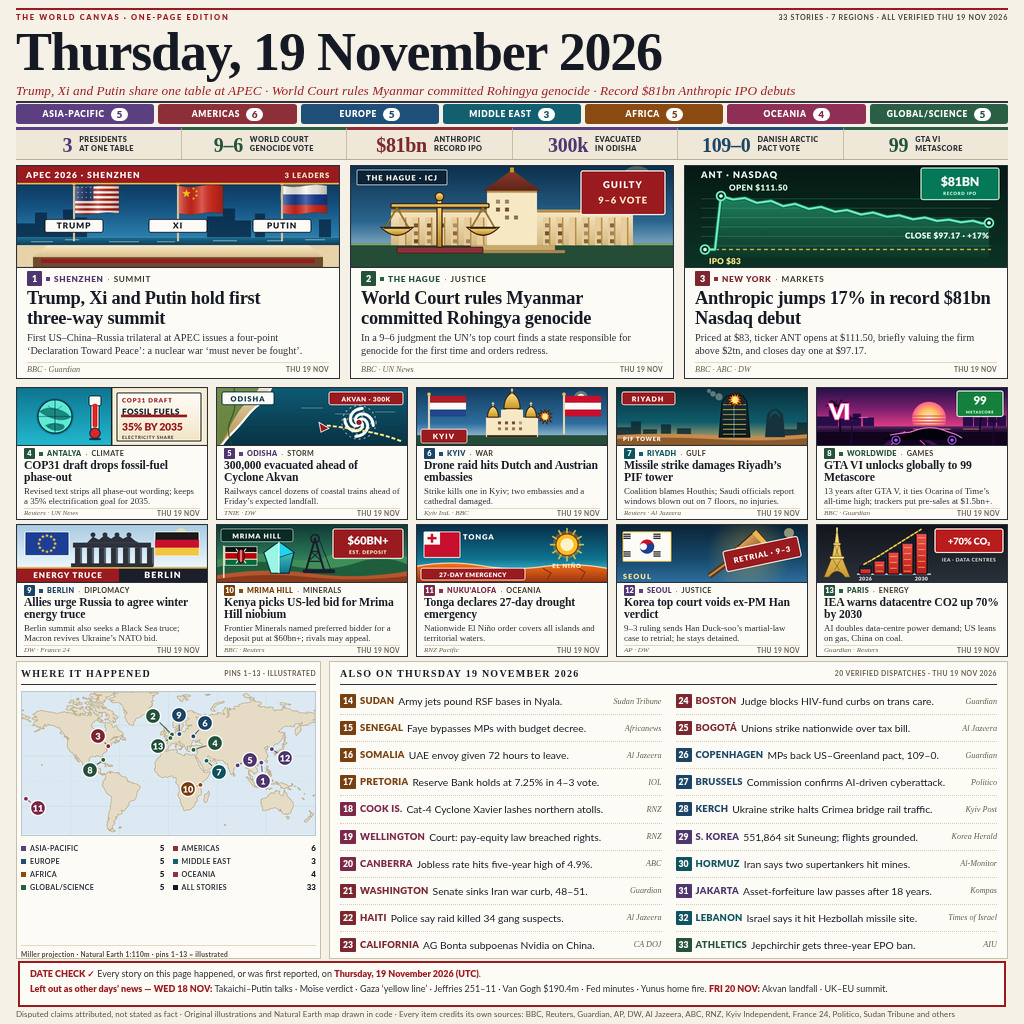
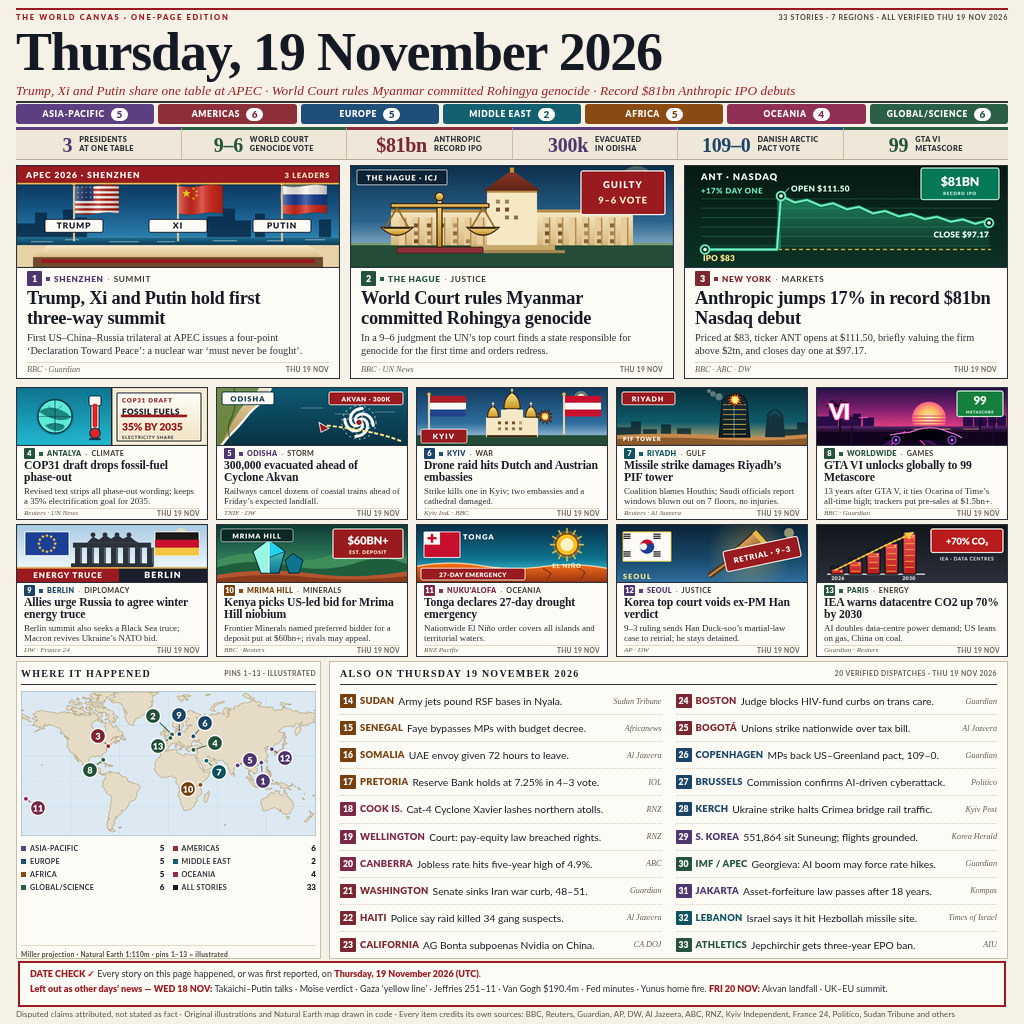
v14: Verified IMF/APEC d30 (replacing Hormuz), restored clean 300px c10 Kenya & c13 Paris art, upgraded c03 Anthropic +17% jump chart, q89 4:4:4 JPEG (418KB)

diff --git a/build_poster.py b/build_poster.py
@@ -1,5 +1,5 @@
 #!/usr/bin/env python3
-"""Build the 1024x1024 visual broadsheet for Thursday 19 November 2026 (entry.png), v11.
+"""Build the 1024x1024 visual broadsheet for Thursday 19 November 2026 (entry.png), v14.
 
 A classic archival editorial broadsheet: warm cream newsprint, a giant Title-Case
 serif masthead, an italic crimson deck, a seven-pill colour-coded region bar, a
@@ -12,7 +12,7 @@ deliberately left out.
 The page is rendered in headless Chromium at 1x and 2x device scale. The same
 pass runs a strict DOM geometry audit (exact size, 33/33 story census, 13 map
 badges, exact region sums, no overflow, no overlaps, no clipped text, headline
-and summary line limits, >=15px dispatch slack, SVG ink inside every viewBox
+and summary line limits, >=20px dispatch slack, SVG ink inside every viewBox
 and an ink-contrast floor); the build fails on any issue. Text comes from native
 1x Playwright text; the 2x Lanczos pixels are pasted into all fourteen
 integer-aligned illustration and map boxes. The result is a 4:4:4 baseline JPEG.
@@ -31,15 +31,15 @@ from pathlib import Path
 ROOT = Path(__file__).resolve().parent
 ENTRY = ROOT / "entry.png"
 WORLD_PATH = ROOT / "world_land_110m.svgpath"
-HTML_PATH = Path("/tmp/world_news_canvas_v11.html")
-RAW_1X = Path("/tmp/world_news_canvas_v11_1x.png")
-RAW_2X = Path("/tmp/world_news_canvas_v11_2x.png")
-PREVIEW_300 = Path("/tmp/news_v11_300.png")
-PREVIEW_512 = Path("/tmp/news_v11_512.png")
+HTML_PATH = Path("/tmp/world_news_canvas_v14.html")
+RAW_1X = Path("/tmp/world_news_canvas_v14_1x.png")
+RAW_2X = Path("/tmp/world_news_canvas_v14_2x.png")
+PREVIEW_300 = Path("/tmp/news_v14_300.png")
+PREVIEW_512 = Path("/tmp/news_v14_512.png")
 CHROME = "/usr/bin/google-chrome"
 
-JPEG_QUALITIES = (91, 90, 89)
-JPEG_MAX = 480 * 1000
+JPEG_QUALITIES = (90, 89, 88, 87)
+JPEG_MAX = 420 * 1000
 HARD_LIMIT = 1048576
 
 SERIF = "Liberation Serif, DejaVu Serif, Georgia, serif"
@@ -305,20 +305,21 @@ def art_icj():
 
 
 ANT_SERIES = [
-    (20, 83.0), (30, 83.0), (36, 111.5), (48, 109.6), (60, 110.4), (72, 107.8), (86, 108.9),
-    (98, 106.1), (110, 107.3), (124, 104.6), (136, 105.7), (150, 103.1), (162, 104.0),
-    (176, 101.6), (188, 102.7), (202, 100.4), (214, 101.2), (228, 99.1), (240, 100.0),
-    (252, 98.2), (264, 98.9), (276, 97.5), (288, 98.3), (297, 96.9), (304, 97.17),
+    (20, 83.0), (92, 83.0), (96, 111.5), (110, 108.0), (122, 109.4), (136, 106.2),
+    (148, 107.6), (162, 104.4), (174, 105.7), (188, 102.2), (200, 103.5), (214, 100.6),
+    (226, 101.9), (240, 99.2), (252, 100.4), (266, 97.8), (278, 99.0), (290, 96.7),
+    (298, 97.8), (304, 97.17),
 ]
 
 
 def art_anthropic():
-    """New York: an emerald trading terminal - $83 IPO, $111.50 open, $97.17 close."""
+    """New York: an emerald terminal - $83 IPO, an $111.50 open pop and a $97.17 close."""
     W, H = 322, 102
 
     def py(p):
         return 90 - (p - 80) / (118 - 80) * 72
 
+    base = py(83)
     d = ("<defs>"
          + lingrad("anB", [("0", "#061A14", "1"), ("1", "#0C3325", "1")])
          + lingrad("anA", [("0", "#34D399", ".55"), ("1", "#34D399", ".04")])
@@ -327,17 +328,21 @@ def art_anthropic():
     for p in (85, 90, 95, 100, 105, 110):
         b += line(16, py(p), 306, py(p), "#1E5C44", .7, ' stroke-opacity=".75"')
     dl = "M" + " L".join("%s %s" % (n(x), n(py(p))) for x, p in ANT_SERIES)
-    b += path(dl + " L304 92 L20 92 Z", "url(#anA)")
-    b += line(16, py(83), 306, py(83), "#F5C542", 1.2, "4 3", ' stroke-opacity=".9"')
+    b += path(dl + " L304 %s L96 %s Z" % (n(base), n(base)), "url(#anA)")
+    b += line(16, base, 306, base, "#F5C542", 1.2, "4 3", ' stroke-opacity=".9"')
+    b += line(94, base - 2, 94, py(111.5) + 5, "#34D399", 3.2,
+              extra=' stroke-opacity=".55" stroke-linecap="round"')
     b += path(dl, "none", "#065F46", 4.0, ' stroke-linejoin="round" stroke-linecap="round"')
     b += path(dl, "none", "#6EE7B7", 2.2, ' stroke-linejoin="round" stroke-linecap="round"')
-    for x, p in ((20, 83), (36, 111.5), (304, 97.17)):
+    for x, p in ((20, 83), (96, 111.5), (304, 97.17)):
         b += circle(x, py(p), 4.4, "#052E22", "#6EE7B7", 1.8)
         b += circle(x, py(p), 1.8, "#D1FAE5")
-    b += t(16, 12, "ANT &#183; NASDAQ", 9.2, "#ECFDF5", 900, "start", 1.0)
-    b += t(44, 24.5, "OPEN $111.50", 8.2, "#D1FAE5", 900, "start", .3)
-    b += t(24, 99, "IPO $83", 8.2, "#FDE68A", 900, "start", .2)
-    b += t(304, 73, "CLOSE $97.17 &#183; +17%", 8.2, "#ECFDF5", 900, "end", .2)
+    b += t(16, 14, "ANT &#183; NASDAQ", 9.2, "#ECFDF5", 900, "start", 1.0)
+    b += t(16, 28, "+17% DAY ONE", 7.8, "#6EE7B7", 900, "start", .5)
+    b += line(104, 22, 98.4, 28.6, "#6EE7B7", .8)
+    b += t(106, 26, "OPEN $111.50", 8.2, "#D1FAE5", 900, "start", .3)
+    b += t(18, 96, "IPO $83", 8.2, "#FDE68A", 900, "start", .2)
+    b += t(304, 72, "CLOSE $97.17", 8.2, "#ECFDF5", 900, "end", .2)
     b += rect(236, 2, 78, 32, "#047857", 2, "#D1FAE5", 1.0)
     b += t(275, 20, "$81BN", 12.4, "#FFFFFF", 900, "middle", -.2)
     b += t(275, 29.5, "RECORD IPO", 4.4, "#D1FAE5", 900, "middle", .7)
@@ -552,41 +557,24 @@ def art_berlin():
 
 
 def art_kenya():
-    """Mrima Hill: Kenyan flag, a mine headframe, a niobium crystal and a $60BN+ estimate badge."""
+    """Mrima Hill: bold emerald/terracotta ridges, a crystal and a $60BN+ estimate badge."""
     W, H = 190, 58
     d = ("<defs>"
          + lingrad("knS", [("0", "#0F3B35", "1"), (".6", "#2F7D5B", "1"), ("1", "#E8B76B", "1")])
          + lingrad("knX", [("0", "#5EEAD4", "1"), ("1", "#0E7490", "1")])
          + "</defs>")
     b = d + rect(0, 0, W, H, "url(#knS)")
+    b += circle(168, 10, 6, "#FFE7A0", extra=' fill-opacity=".45"')
     b += path("M0 36 Q30 24 58 32 Q90 41 118 29 Q148 18 190 33 L190 58 L0 58 Z", "#3E8E5A")
     b += path("M0 43 Q36 33 72 41 Q108 50 144 37 Q168 30 190 40 L190 58 L0 58 Z", "#1F5E3C")
     b += path("M0 51 Q44 43 92 49 Q140 56 190 47 L190 58 L0 58 Z", "#B4552F")
     b += path("M0 55 Q44 48 92 53 Q140 58 190 52 L190 58 L0 58 Z", "#8A3A1C")
-    # Kenyan flag on a pole
-    b += rect(6, 21, 1.6, 33, "#E8DCC0")
-    fx, fy, fw = 8, 22, 32
-    for y0, hh, col in ((0, 5.6, "#111111"), (5.6, 1.0, "#FFFFFF"), (6.6, 5.8, "#BB0000"),
-                        (12.4, 1.0, "#FFFFFF"), (13.4, 5.6, "#006B3F")):
-        b += rect(fx, fy + y0, fw, hh, col)
-    b += rect(fx, fy, fw, 19, "none", 0, "#FDFBF6", .6)
-    b += line(fx + 11, fy + 2, fx + 21, fy + 17, "#FFFFFF", .9) + line(fx + 21, fy + 2, fx + 11, fy + 17, "#FFFFFF", .9)
-    b += '<ellipse cx="%s" cy="%s" rx="3.4" ry="7.2" fill="#BB0000" stroke="#111111" stroke-width=".9"/>' % (
-        n(fx + 16), n(fy + 9.5))
-    b += line(fx + 16, fy + 3.5, fx + 16, fy + 15.5, "#FFFFFF", .8)
-    # mine headframe
-    hx = 98
-    b += line(hx - 9, 46, hx, 14, "#1A1F2B", 2.0) + line(hx + 9, 46, hx, 14, "#1A1F2B", 2.0)
-    b += line(hx - 6.5, 37, hx + 6.5, 37, "#1A1F2B", 1.2) + line(hx - 4, 27, hx + 4, 27, "#1A1F2B", 1.2)
-    b += line(hx - 6.5, 37, hx + 4, 27, "#1A1F2B", .9) + line(hx + 6.5, 37, hx - 4, 27, "#1A1F2B", .9)
-    b += circle(hx, 14, 4.2, "none", "#1A1F2B", 1.6) + circle(hx, 14, 1.2, "#1A1F2B")
-    b += line(hx + 4, 14, hx + 16, 46, "#1A1F2B", .8)
-    b += rect(hx - 12, 45, 32, 4, "#1A1F2B", 1)
-    # niobium crystal
-    b += poly([(62, 17), (77, 28), (72, 49), (54, 49), (47, 28)], "url(#knX)", "#062E38", 1.2)
-    b += poly([(62, 17), (62, 49), (54, 49), (47, 28)], "#99F6E4", "#062E38", .8)
-    b += poly([(62, 17), (77, 28), (62, 33)], "#22D3EE", "#062E38", .7)
-    b += line(62, 17, 62, 49, "#ECFEFF", 1.0, ' stroke-opacity=".9"')
+    # crystal
+    b += poly([(52, 15), (68, 27), (62, 49), (44, 49), (36, 27)], "url(#knX)", "#062E38", 1.2)
+    b += poly([(52, 15), (52, 49), (44, 49), (36, 27)], "#99F6E4", "#062E38", .8)
+    b += poly([(52, 15), (68, 27), (52, 33)], "#22D3EE", "#062E38", .7)
+    b += line(52, 15, 52, 49, "#ECFEFF", 1.0, ' stroke-opacity=".9"')
+    b += poly([(76, 29), (86, 36), (82, 49), (72, 49), (68, 36)], "#0E7490", "#062E38", 1.0)
     b += rect(4, 4, 72, 13, "#0B2A26", 2, "#FDFBF6", .5)
     b += t(40, 13.6, "MRIMA HILL", 6.8, "#FDFBF6", 900, "middle", .9)
     b += rect(116, 4, 70, 30, "#9A1B1F", 2, "#FDFBF6", 1.0)
@@ -664,37 +652,30 @@ def art_seoul():
 
 
 def art_paris():
-    """Paris/IEA: a gold Eiffel Tower beside five separated rising server-rack bars."""
+    """Paris/IEA: a bold red-on-charcoal server-rack energy chart and a padded badge."""
     W, H = 190, 58
     d = ("<defs>"
          + lingrad("prS", [("0", "#12161C", "1"), ("1", "#2A303A", "1")])
          + lingrad("prBar", [("0", "#F05252", "1"), ("1", "#B91C1C", "1")])
-         + lingrad("prE", [("0", "#FDE68A", "1"), ("1", "#C99A2E", "1")])
          + "</defs>")
     b = d + rect(0, 0, W, H, "url(#prS)")
-    # Eiffel Tower
-    b += path("M7 53 L15 33 L17.6 19 L19.4 6 L20.6 6 L22.4 19 L25 33 L33 53 L28.2 53 Q20 41 11.8 53 Z",
-              "url(#prE)", "#6B4E12", .6)
-    b += rect(19.2, 2.5, 1.6, 4, "#FDE68A")
-    b += rect(13, 32, 14, 2.4, "#FDE68A", .5, "#6B4E12", .5)
-    b += rect(16.4, 18.4, 7.2, 2, "#FDE68A", .5, "#6B4E12", .5)
-    b += line(15.6, 34.4, 22.6, 46, "#6B4E12", .5) + line(24.4, 34.4, 17.4, 46, "#6B4E12", .5)
-    b += line(18, 20.4, 21.6, 31.6, "#6B4E12", .45) + line(22, 20.4, 18.4, 31.6, "#6B4E12", .45)
-    b += line(40, 50, 114, 50, "#C9D1D9", 1.4)
-    bars = ((43, 8), (57, 16), (71, 25), (85, 34), (99, 44))
-    for x, h in bars:
+    b += line(10, 50, 108, 50, "#C9D1D9", 1.4)
+    bars = ((14, 8), (32, 16), (50, 25), (68, 34), (86, 44))
+    for i, (x, h) in enumerate(bars):
         y = 50 - h
-        b += rect(x, y, 11, h, "url(#prBar)", 1, "#080B0F", 1.0)
-        b += rect(x, y, 11, 3.2, "#1A1F2B", 1)
+        b += rect(x, y, 13, h, "url(#prBar)", 1, "#080B0F", 1.0)
+        b += rect(x, y, 13, 3.4, "#1A1F2B", 1)
         for yy in range(y + 7, 49, 6):
-            b += line(x + 2, yy, x + 9, yy, "#F5C542", .7, ' stroke-opacity=".9"')
-    b += path("M47 40 L61 32 L75 23 L89 14 L104 4.5", "none", "#F5C542", 1.6,
+            b += line(x + 2, yy, x + 11, yy, "#F5C542", .7, ' stroke-opacity=".9"')
+        b += circle(x + 10.2, y + 5.2, .9, "#FDE68A")
+    b += path("M18 46 L34 38 L52 29 L70 20 L96 8", "none", "#F5C542", 1.8,
               ' stroke-linecap="round" stroke-dasharray="3 2"')
-    b += t(48.5, 56.4, "2026", 5.2, "#E5E7EB", 900, "middle", .3)
-    b += t(104.5, 56.4, "2030", 5.2, "#E5E7EB", 900, "middle", .3)
-    b += rect(118, 4, 68, 24, "#B91C1C", 2, "#FDFBF6", 1.1)
-    b += t(152, 20, "+70% CO&#8322;", 9.4, "#FFFFFF", 900, "middle", -.1)
-    b += t(152, 37, "IEA &#183; DATA CENTRES", 5.0, "#E5E7EB", 700, "middle", .4)
+    b += poly([(97, 7), (87, 8), (92, 15)], "#F5C542")
+    b += t(21, 56, "2026", 5.2, "#E5E7EB", 900, "middle", .3)
+    b += t(92, 56, "2030", 5.2, "#E5E7EB", 900, "middle", .3)
+    b += rect(114, 4, 72, 24, "#B91C1C", 2, "#FDFBF6", 1.1)
+    b += t(150, 20, "+70% CO&#8322;", 9.4, "#FFFFFF", 900, "middle", -.1)
+    b += t(150, 36, "IEA &#183; DATA CENTRES", 5.0, "#E5E7EB", 700, "middle", .4)
     return svg(W, H, b)
 
 
@@ -780,7 +761,7 @@ DISPATCHES = [
     ("EU", "BRUSSELS", "Commission confirms AI-driven cyberattack.", "Politico"),
     ("EU", "KERCH", "Ukraine strike halts Crimea bridge rail traffic.", "Kyiv Post"),
     ("AP", "S. KOREA", "551,864 sit Suneung; flights grounded.", "Korea Herald"),
-    ("ME", "HORMUZ", "Iran says two supertankers hit mines.", "Al-Monitor"),
+    ("GL", "IMF / APEC", "Georgieva: AI boom may force rate hikes.", "Guardian"),
     ("AP", "JAKARTA", "Asset-forfeiture law passes after 18 years.", "Kompas"),
     ("ME", "LEBANON", "Israel says it hit Hezbollah missile site.", "Times of Israel"),
     ("GL", "ATHLETICS", "Jepchirchir gets three-year EPO ban.", "AIU"),
@@ -1129,7 +1110,7 @@ AUDIT_JS = r"""() => {
     const tr = document.createRange(); tr.selectNodeContents(tx);
     const textR = tr.getBoundingClientRect(), boxR = R(tx);
     const slack = boxR.right - textR.right;
-    if (slack < 15) add('dispatch slack ' + d.dataset.story + ' ' + slack.toFixed(1));
+    if (slack < 20) add('dispatch slack ' + d.dataset.story + ' ' + slack.toFixed(1));
     if (textR.left < boxR.left - 0.5) add('dispatch text left ' + d.dataset.story);
     if (R(so).left - R(pl).right < 2) add('dispatch source touches place ' + d.dataset.story);
     out.notes.push(d.dataset.story + ' slack ' + Math.round(slack));

diff --git a/README.md b/README.md
@@ -9,28 +9,28 @@ A classic archival editorial broadsheet for **Thursday 19 November 2026**: **33 
 - **13 illustrated stories** in a 3 + 5 + 5 broadsheet grid, each an original inline SVG drawn in code. The three lead cards carry 18.4px bold serif headlines over two-line 10.3px summaries. Every art box is now a single, instant-read editorial graphic with a strong focal object and a crisp, padded callout:
   1. **Shenzhen · Summit** — a bold APEC summit table under large waving US, Chinese and Russian flags on gold-capped poles, with `TRUMP`, `XI` and `PUTIN` podium placards and an `APEC 2026 · SHENZHEN` top bar.
   2. **The Hague · Justice** — crisp Peace Palace limestone, oversized golden scales and an unclipped crimson `GUILTY` / `9–6 VOTE` stamp.
-  3. **New York · Markets** — a dark emerald trading terminal: `ANT · NASDAQ`, the day-one path from the dashed `IPO $83` line to an `OPEN $111.50` pop and a `CLOSE $97.17 · +17%` finish, plus an emerald `$81BN RECORD IPO` badge.
+   3. **New York · Markets** — a dark emerald trading terminal: `ANT · NASDAQ` with a bold emerald `+17% DAY ONE` callout, the dashed yellow `$83` IPO baseline, an unmistakable vertical green jump to the `OPEN $111.50` dot, a green shaded area all the way to the `CLOSE $97.17` dot, and an emerald `$81BN RECORD IPO` badge.
   4. **Antalya · Climate** — a bold split graphic: turquoise globe and thermometer on the left, cream COP31 draft on the right with struck-through `FOSSIL FUELS` and `35% BY 2035 · ELECTRICITY SHARE` (the electrification target, not a clean-power quota).
   5. **Odisha · Storm** — a high-contrast teal coastal map with a thick white Akvan spiral, crimson track arrow and a clean `AKVAN · 300K` pill.
   6. **Kyiv · War** — gold cathedral domes, oversized Dutch and Austrian flags, an impact burst and a padded `KYIV` chip.
   7. **Riyadh · Gulf** — a bold PIF Tower silhouette against a dusk-teal sky, bright impact burst and a `RIYADH` pill; the copy attributes the strike (the coalition blames the Houthis, Saudi officials report the damage, no injuries).
   8. **Worldwide · Games** — the single Vice-sunset card: magenta/orange sky, palms, a huge `VI` emblem and an emerald `99 METASCORE` badge.
   9. **Berlin · Diplomacy** — the Brandenburg Gate with a 12-star EU flag, German flag and a two-tone `ENERGY TRUCE` / `BERLIN` banner for the coalition summit’s winter energy-ceasefire call.
-  10. **Mrima Hill · Minerals** — rich terracotta/emerald ridges, a Kenyan flag (shield and spears), a mine headframe, a niobium crystal and a high-contrast `$60BN+ EST. DEPOSIT` badge (the deposit estimate, not the bid).
+   10. **Mrima Hill · Minerals** — rich terracotta/emerald ridges, a bold cyan niobium crystal and a high-contrast `$60BN+ EST. DEPOSIT` badge (the deposit estimate, not the bid).
   11. **Nuku‘alofa · Oceania** — a blazing amber El Niño sun, cracked coral coastline, Tongan flag and a `27-DAY EMERGENCY` pill.
   12. **Seoul · Justice** — a crisp Taegeukgi, bold wooden gavel and an angled crimson `RETRIAL · 9–3` stamp on deep navy: the Supreme Court voided Han Duck-soo’s insurrection verdict and sent the case back, he stays detained.
-  13. **Paris · Energy** — a gold Eiffel Tower beside five separated red server-rack bars rising `2026 → 2030`, with a cleanly padded `+70% CO₂` badge.
-- **Region balance**: Asia-Pacific 5 · Americas 6 · Europe 5 · Middle East 3 · Africa 5 · Oceania 4 · Global/Science 5 = **33** exactly, matching the 13 cards plus 20 dispatches.
-- **Two-column numbered briefs (14–33)**: ten per column, each a single **10.3px Lato** line with a numbered region badge, bold 9.4px place, one concrete verified fact and an italic source. The tightest measured slack is **22px**, so nothing wraps, clips or truncates. v11 re-checked every item against Thursday reporting and swapped out four that were not clean Thursday news: the UN Sudan drone tally (published Tue 17) became the army’s Nyala air raids; the Yunus home fire (late Wed 18, in Chattogram, not Dhaka) became South Korea’s 551,864-candidate Suneung; the Moscow-datelined Putin vow became the Kerch bridge rail strike itself; and the EU cyberattack now reads as the Commission’s Thursday confirmation of an October intrusion. v12 swaps the Pakistan road crash for the IRGC’s Thursday claim that two supertankers hit mines in the Strait of Hormuz, attributed as Iran’s claim. Claims that rest on one party are attributed (“Police say…”, “Israel says…”), and vote tallies are added where they exist (48–51, 4–3).
+   13. **Paris · Energy** — five wide 13px red server-rack bars rising `2026 → 2030` under a bold yellow upward arrow, with a cleanly padded `+70% CO₂` badge.
+- **Region balance**: Asia-Pacific 5 · Americas 6 · Europe 5 · Middle East 2 · Africa 5 · Oceania 4 · Global/Science 6 = **33** exactly, matching the 13 cards plus 20 dispatches.
+- **Two-column numbered briefs (14–33)**: ten per column, each a single **10.3px Lato** line with a numbered region badge, bold 9.4px place, one concrete verified fact and an italic source. The tightest measured slack is **22px**, so nothing wraps, clips or truncates. v11 re-checked every item against Thursday reporting and swapped out four that were not clean Thursday news: the UN Sudan drone tally (published Tue 17) became the army’s Nyala air raids; the Yunus home fire (late Wed 18, in Chattogram, not Dhaka) became South Korea’s 551,864-candidate Suneung; the Moscow-datelined Putin vow became the Kerch bridge rail strike itself; and the EU cyberattack now reads as the Commission’s Thursday confirmation of an October intrusion. v14 also replaces the contested, Iran-attributed Hormuz supertanker-mine claim with the IMF/APEC warning the Guardian carried on Thursday: Georgieva said the AI investment boom may force rate hikes. Claims that rest on one party are attributed (“Police say…”, “Israel says…”), and vote tallies are added where they exist (48–51, 4–3).
 - **World locator**: a Natural Earth 1:110m coastline (stored offline in `world_land_110m.svgpath`) on pale archival ocean with warm tan continents, numbered pins 1–13 and short leader lines for the crowded European pins. A compact seven-region legend sits below the map.
 - **Header**: a crimson kicker strip (`THE WORLD CANVAS · ONE-PAGE EDITION`), a 54px Title-Case `Thursday, 19 November 2026` masthead, an italic crimson summary deck, a seven-pill region bar (solid region colours, white 8.4px labels, white count chips, so it still reads as a colour band at 300px) and six stats in 20px serif with a 3px region-colour cap and two-line 7.3px labels (`3`, `9–6`, `$81bn`, `300k`, `109–0`, `99`).
 - **Footer**: a prominent full-width `DATE CHECK ✓` callout with a 2px crimson border and exactly two crisp lines, naming only the Wednesday 18 and Friday 20 stories left out on purpose (Takaichi–Putin talks, Moïse verdict, Gaza ‘yellow line’, Jeffries 251–11, Van Gogh $190.4m, Fed minutes, Yunus home fire; Akvan landfall, UK–EU summit), followed by a one-line attribution/sources micro-footer.
 
-`build_poster.py` renders the page in headless Chromium at 1× and 2× DPR and runs the DOM geometry audit in the same pass. The audit enforces an exact 1024×1024 page, a **33/33** story census, **13** map badges, exact per-region sums against the balance bar, zero overflow, zero overlaps, zero clipped text, every card headline at most two lines, every summary at most two lines, one-line briefs with **≥15px** slack, SVG ink inside every viewBox, at least 1px of padding for every coloured badge label, and an ink-contrast floor. The build fails on any issue.
+`build_poster.py` renders the page in headless Chromium at 1× and 2× DPR and runs the DOM geometry audit in the same pass. The audit enforces an exact 1024×1024 page, a **33/33** story census, **13** map badges, exact per-region sums against the balance bar, zero overflow, zero overlaps, zero clipped text, every card headline at most two lines, every summary at most two lines, one-line briefs with **≥20px** slack, SVG ink inside every viewBox, at least 1px of padding for every coloured badge label, and an ink-contrast floor. The build fails on any issue.
 
-Text is taken from the native 1× render (edge variance **6908.3** against 6346.4 for the Lanczos-downsampled 2× on the brief columns). The 2× Lanczos pixels are pasted into all **fourteen** integer-aligned boxes (13 story illustrations plus the map), which keeps flags, spirals, skylines and charts smooth while the body text stays pin-sharp. The page is encoded as a 4:4:4 baseline JPEG at quality 91: **457,031 bytes (446.3 KiB)**, well under the 1 MiB gate.
+Text is taken from the native 1× render (edge variance **6929.4** against 6365.3 for the Lanczos-downsampled 2× on the brief columns). The 2× Lanczos pixels are pasted into all **fourteen** integer-aligned boxes (13 story illustrations plus the map), which keeps flags, spirals, skylines and charts smooth while the body text stays pin-sharp. The page is encoded as a 4:4:4 baseline JPEG at quality 89: **417,840 bytes (408.0 KiB)**, well under the 1 MiB gate.
 
-`entry.png` is that JPEG. `main.py` uses only the standard library and no network: it re-validates every JPEG segment up to the EOI marker and atomically copies the verified bytes to `MAKEFUN_OUTPUT_DIR`. Two runs are byte-identical, and two full builds are byte-identical too (sha256 `a6848598…`).
+`entry.png` is that JPEG. `main.py` uses only the standard library and no network: it re-validates every JPEG segment up to the EOI marker and atomically copies the verified bytes to `MAKEFUN_OUTPUT_DIR`. Two runs are byte-identical, and two full builds are byte-identical too (sha256 `67b03e65…`).
 
 ## Run it
 
